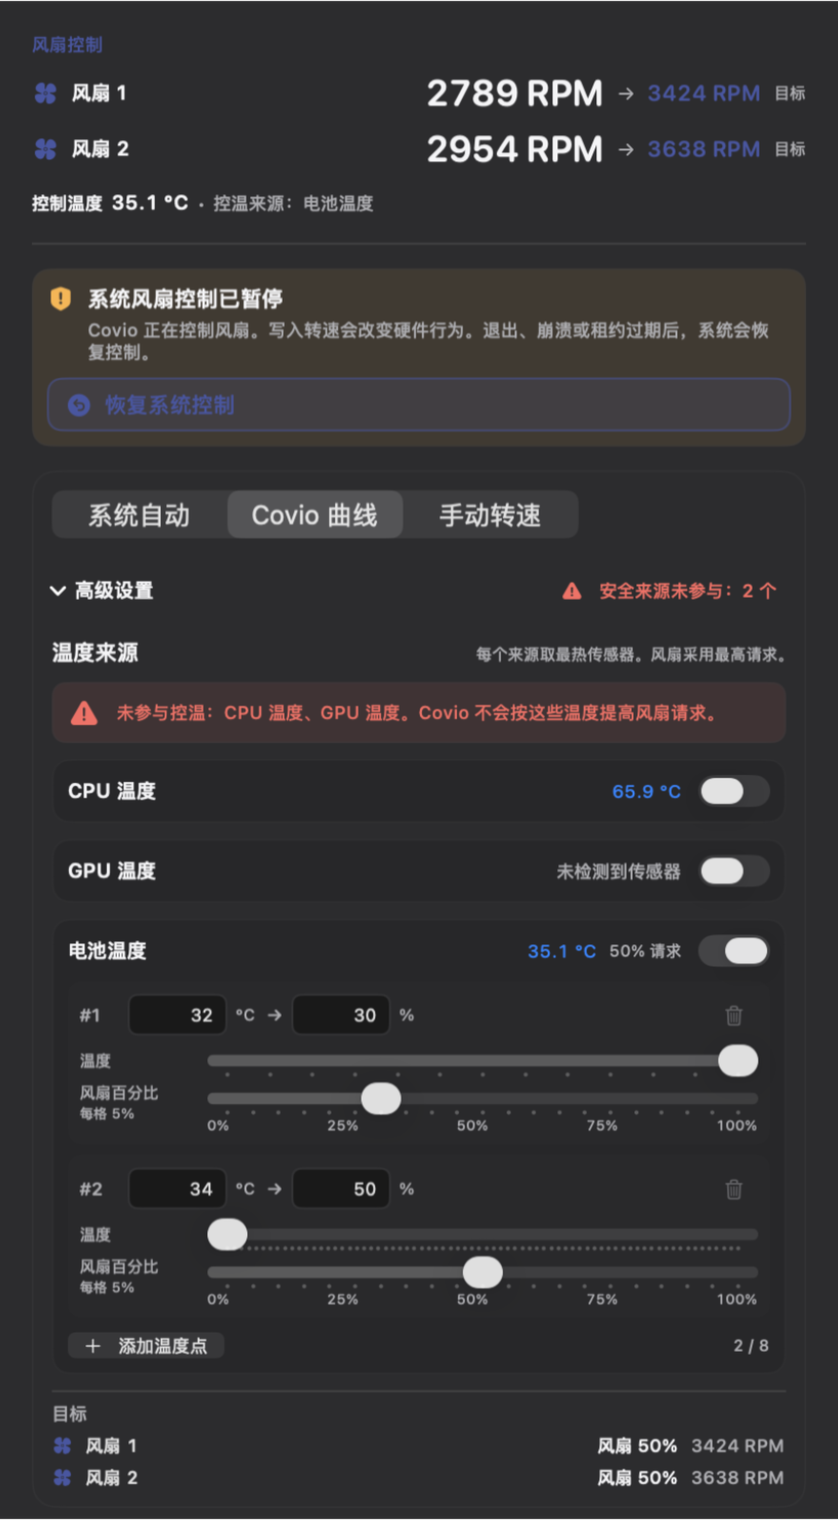
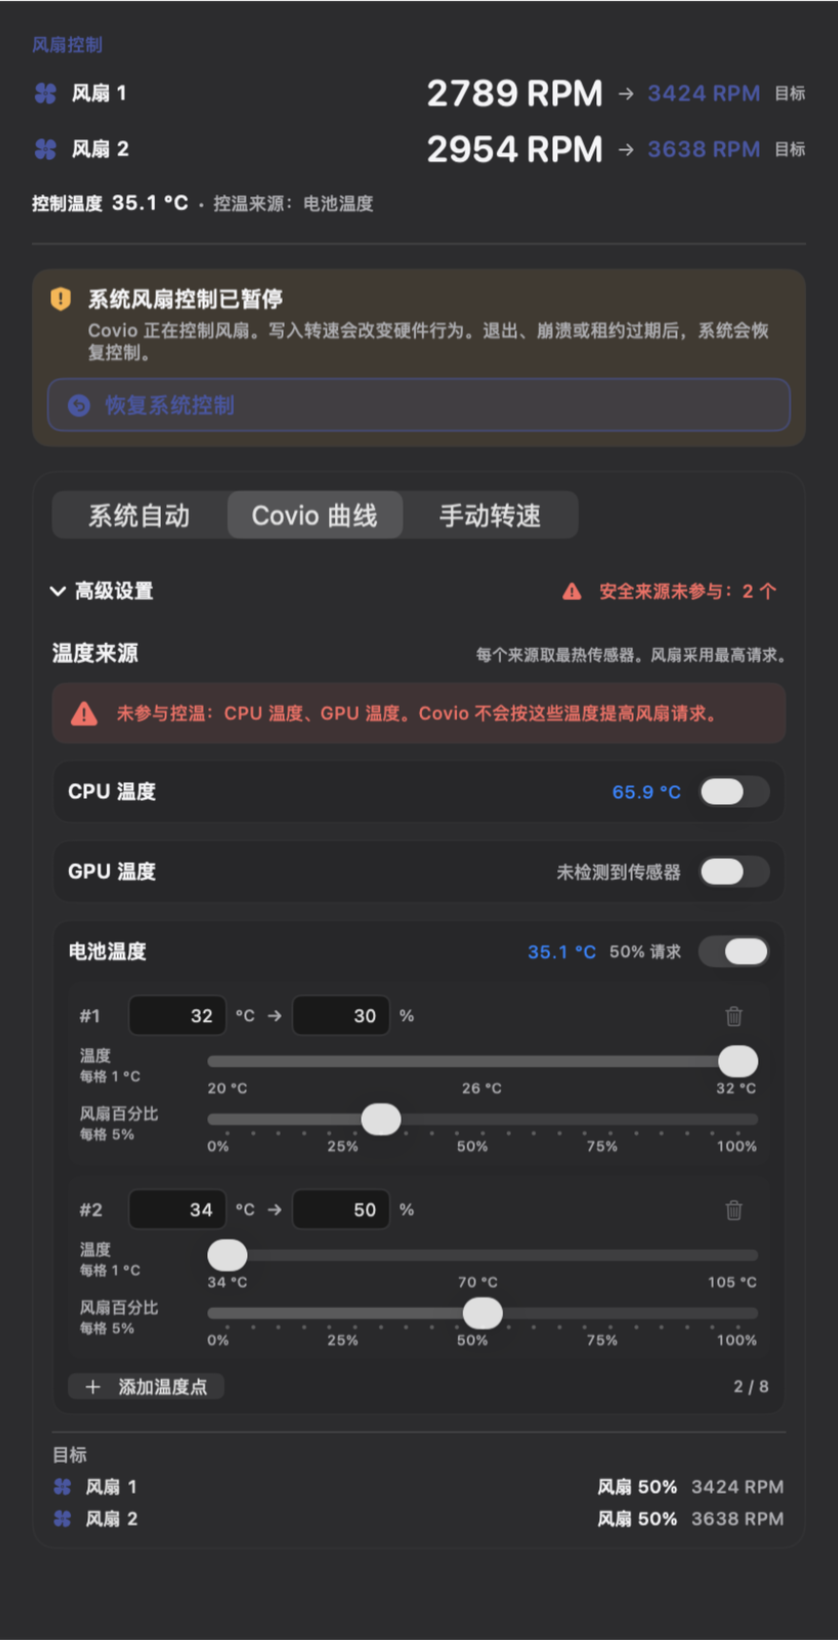
Fix fan temperature slider scale
Refs #491

diff --git a/macosApp/src/Hub/Monitor/Fan/MonitorFanTemperatureRuleEditor.swift b/macosApp/src/Hub/Monitor/Fan/MonitorFanTemperatureRuleEditor.swift
@@ -226,11 +226,9 @@ struct MonitorFanTemperatureRuleEditor: View {
 
             let temperatureRange = temperatureRange(for: index, points: points)
             if temperatureRange.lowerBound < temperatureRange.upperBound {
-                sliderRow(
-                    title: ContractCopy.copyMonitorFanTemperature.text(for: language),
+                temperatureSliderRow(
                     value: temperatureBinding(source: source, index: index, points: points),
                     range: temperatureRange,
-                    step: 1,
                     accessibilityLabel: "\(sourceTitle(source)) \(controlPointTitle(index)) \(ContractCopy.copyMonitorFanTemperature.text(for: language))",
                     accessibilityValue: "\(Int(point.celsius.rounded())) °C",
                     onEditingChanged: { editing in
@@ -265,24 +263,47 @@ struct MonitorFanTemperatureRuleEditor: View {
         )
     }
 
-    private func sliderRow(
-        title: String,
+    private func temperatureSliderRow(
         value: Binding<Double>,
         range: ClosedRange<Double>,
-        step: Double,
         accessibilityLabel: String,
         accessibilityValue: String,
         onEditingChanged: @escaping (Bool) -> Void
     ) -> some View {
-        HStack(spacing: 6) {
-            Text(title)
-                .font(.system(size: 8, weight: .medium))
-                .foregroundStyle(MacTheme.textSecondary)
-                .frame(width: 58, alignment: .leading)
-            Slider(value: value, in: range, step: step, onEditingChanged: onEditingChanged)
+        let midpoint = ((range.lowerBound + range.upperBound) / 2).rounded()
+        return HStack(alignment: .top, spacing: 6) {
+            VStack(alignment: .leading, spacing: 1) {
+                Text(ContractCopy.copyMonitorFanTemperature.text(for: language))
+                    .font(.system(size: 8, weight: .medium))
+                    .foregroundStyle(MacTheme.textSecondary)
+                Text(ContractCopy.copyMonitorFanTemperatureTick.text(for: language))
+                    .font(.system(size: 7, weight: .medium))
+                    .foregroundStyle(MacTheme.textSecondary)
+            }
+            .frame(width: 58, alignment: .leading)
+
+            VStack(alignment: .leading, spacing: 1) {
+                Slider(
+                    value: value,
+                    in: range,
+                    onEditingChanged: onEditingChanged
+                )
                 .disabled(busy)
                 .accessibilityLabel(accessibilityLabel)
                 .accessibilityValue(accessibilityValue)
+
+                HStack(spacing: 0) {
+                    Text(MonitorFanFormat.celsius(range.lowerBound))
+                    Spacer(minLength: 0)
+                    Text(MonitorFanFormat.celsius(midpoint))
+                    Spacer(minLength: 0)
+                    Text(MonitorFanFormat.celsius(range.upperBound))
+                }
+                .font(.system(size: 7, weight: .medium, design: .rounded))
+                .foregroundStyle(MacTheme.textSecondary)
+                .monospacedDigit()
+                .accessibilityHidden(true)
+            }
         }
     }
 

diff --git a/macosApp/src/Design/ContractCopy.swift b/macosApp/src/Design/ContractCopy.swift
@@ -881,6 +881,8 @@ enum ContractCopy {
     static let copyMonitorFanTemperature = LocalizedCopy(key: "copy/monitor/fan/temperature", en: "Temperature", zhHans: "温度")
     /// `copy/monitor/fan/temperature-sources`
     static let copyMonitorFanTemperatureSources = LocalizedCopy(key: "copy/monitor/fan/temperature-sources", en: "Temperature sources", zhHans: "温度来源")
+    /// `copy/monitor/fan/temperature-tick`
+    static let copyMonitorFanTemperatureTick = LocalizedCopy(key: "copy/monitor/fan/temperature-tick", en: "1 °C per step", zhHans: "每格 1 °C")
     /// `copy/monitor/fan/title`
     static let copyMonitorFanTitle = LocalizedCopy(key: "copy/monitor/fan/title", en: "Fan", zhHans: "风扇")
     /// `copy/monitor/fan/turbo`
@@ -2114,6 +2116,7 @@ enum ContractCopy {
         copyMonitorFanTarget,
         copyMonitorFanTemperature,
         copyMonitorFanTemperatureSources,
+        copyMonitorFanTemperatureTick,
         copyMonitorFanTitle,
         copyMonitorFanTurbo,
         copyMonitorFanUnavailable,

diff --git a/macosApp/src/Hub/Monitor/Fan/MonitorFanCard.swift b/macosApp/src/Hub/Monitor/Fan/MonitorFanCard.swift
@@ -287,10 +287,13 @@ struct MonitorFanPopover: View {
         if model.configuration.mode == .automatic {
             return 280
         }
+        if advancedExpanded {
+            return 820
+        }
         if model.configuration.mode == .manual {
             return 760
         }
-        return advancedExpanded ? 760 : 360
+        return 360
     }
 
     private var omittedThermalSourceCount: Int {

diff --git a/macosApp/src/Hub/Monitor/MonitorPreviewWindow.swift b/macosApp/src/Hub/Monitor/MonitorPreviewWindow.swift
@@ -545,7 +545,7 @@ struct MonitorFanPreviewRoot: View {
             return 280
         }
         if scenario == "temperature-rules-advanced" {
-            return 760
+            return 820
         }
         return 360
     }

diff --git a/docs/design/monitor-fan-card.md b/docs/design/monitor-fan-card.md
@@ -61,7 +61,8 @@ SMC 键只在读取器初始化时枚举一次。
 popover 固定宽度 420 点。
 系统自动状态高度为 300 点。
 Covio 曲线折叠状态高度为 470 点。
-高级区展开或手动状态高度为 760 点。
+高级区展开高度为 820 点。
+手动状态高度为 760 点。
 popover 外壳使用系统原生 regular Liquid Glass。
 警告区、控制区和传感器区使用标准 thin material。
 Liquid Glass 不用于内容层。
